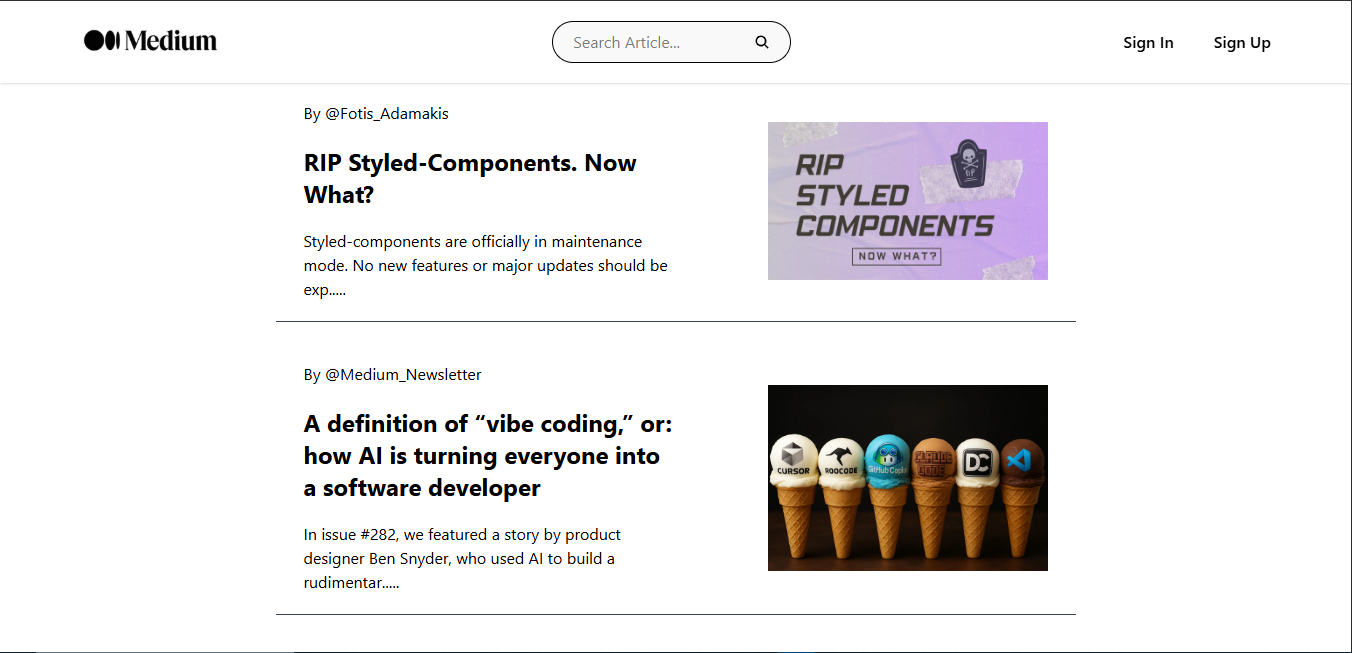
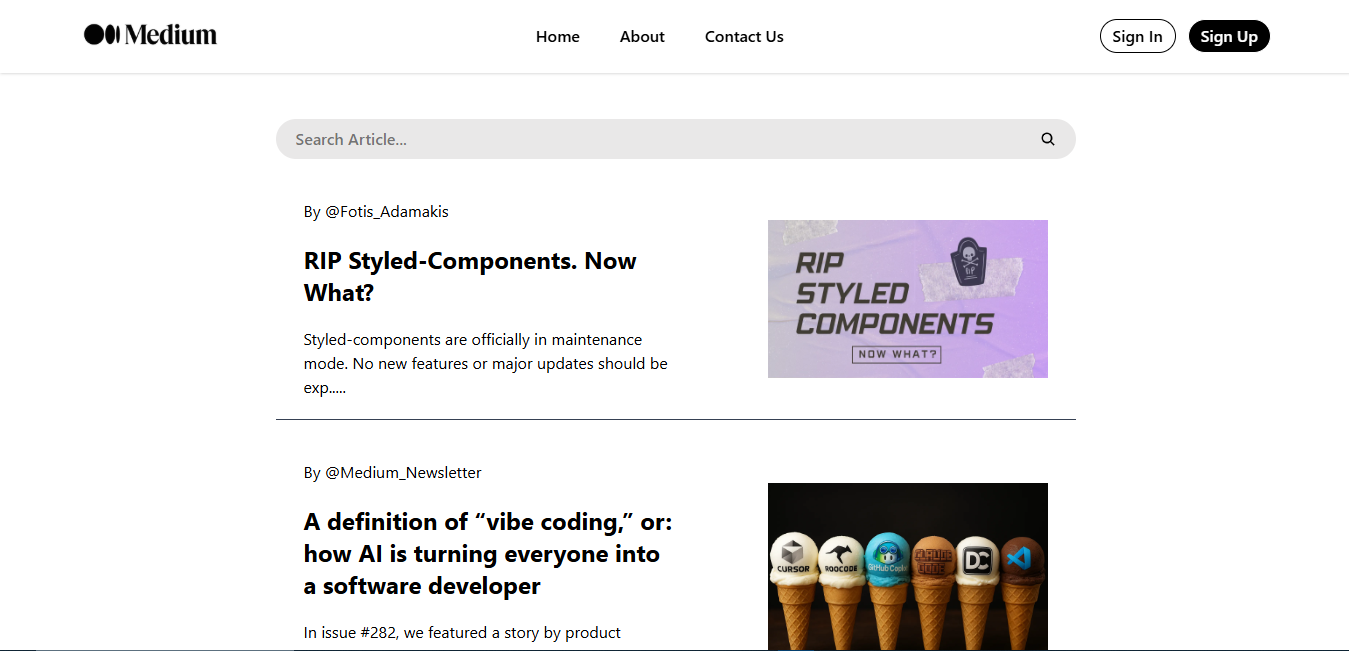
feat: implement layouting using outlet router DOM

diff --git a/src/pages/Homepage.jsx b/src/pages/Homepage.jsx
@@ -1,6 +1,5 @@
 import { useEffect, useState } from "react";
-import { Link, useNavigate, useSearchParams } from "react-router-dom";
-import Footer from "../components/Footer";
+import { useNavigate, useSearchParams } from "react-router-dom";
 import { useForm } from "react-hook-form";
 import { IoSearch } from "react-icons/io5";
 
@@ -34,23 +33,14 @@ const Homepage = () => {
   }
 
   return (
-    <main className=" h-fit flex flex-col justify-center items-center">
-      <nav className="bg-white fixed top-0 right-0 left-0 flex justify-between items-center px-20 py-5 shadow">
-        <div>
-          <img className="w-35" src="/src/assets/logo.png" alt="" />
-        </div>
-        <form onSubmit={handleSubmit(HandleSearch)} className="flex bg-[#F9F9F9] border px-5 rounded-full w-[700]">
-          <input defaultValue={query} {...register("query")} className="outline-none grow py-2" type="text" placeholder="Search Article..." />
+    <>
+      <section className="flex flex-col gap-5 pb-30 mt-30">
+        <form onSubmit={handleSubmit(HandleSearch)} className="flex bg-[#e9e8e8] px-5 rounded-full w-full po">
+          <input defaultValue={query} {...register("query")} className="outli ne-none grow py-2 font-semibold text-black" type="text" placeholder="Search Article..." />
           <button type="submit">
             <IoSearch />
           </button>
         </form>
-        <div className="flex items-center gap-10 font-semibold">
-          <Link to="/">Sign In</Link>
-          <Link to="/">Sign Up</Link>
-        </div>
-      </nav>
-      <section className="flex flex-col gap-5 pb-30 mt-20">
         {article.map((item) => (
           <div onClick={() => nav(`/article/@${item.username}/${item.title.split(" ").join("-")}`)} key={item.id} className="border-b border-b-gray-700 h-fit grid grid-cols-2 px-7 py-5 w-full max-w-200 cursor-pointer">
             <div className="flex flex-col justify-between items-start gap-5">
@@ -64,8 +54,7 @@ const Homepage = () => {
           </div>
         ))}
       </section>
-      <Footer />
-    </main>
+    </>
   );
 };
 

diff --git a/src/components/Navbar.jsx b/src/components/Navbar.jsx
@@ -1,22 +1,21 @@
 import { IoSearch } from "react-icons/io5";
 import { Link } from "react-router-dom";
 
-const Navbar = ({onSubmit, ...props}) => {
+const Navbar = () => {
 
   return (
     <nav className="bg-white fixed top-0 right-0 left-0 flex justify-between items-center px-20 py-5 shadow">
       <div>
         <img className="w-35" src="/src/assets/logo.png" alt="" />
       </div>
-      <form onSubmit={onSubmit} className="flex bg-[#F9F9F9] border px-5 rounded-full w-[700]">
-        <input {...props} className="outline-none grow py-2" type="text" />
-        <button type="submit">
-          <IoSearch/>
-        </button>
-      </form>
       <div className="flex items-center gap-10 font-semibold">
-        <Link to="/">Sign In</Link>
-        <Link to="/">Sign Up</Link>
+        <Link to="/">Home</Link>
+        <Link to="/">About</Link>
+        <Link to="/">Contact Us</Link>
+      </div>
+      <div className="flex items-center gap-3 font-semibold">
+        <Link className="border py-1 px-3 rounded-full" to="/">Sign In</Link>
+        <Link className="border bg-black text-white py-1 px-3 rounded-full" to="/">Sign Up</Link>
       </div>
     </nav>
   );

diff --git a/src/App.jsx b/src/App.jsx
@@ -1,22 +1,27 @@
-import { createBrowserRouter, RouterProvider } from 'react-router-dom'
-import Homepage from './pages/Homepage'
-import ArticleDetail from './pages/ArticleDetail'
+import { createBrowserRouter, RouterProvider } from "react-router-dom";
+import Homepage from "./pages/Homepage";
+import ArticleDetail from "./pages/ArticleDetail";
+import Layout from "./components/Layout";
 
 const router = createBrowserRouter([
   {
-    path: '/',
-    element: <Homepage/>  
-  },
-  {
-    path: '/article/:username/:slug',
-    element: <ArticleDetail/>
-  },
-])
+    path: "",
+    element: <Layout />,
+    children: [
+      {
+        path: "/",
+        element: <Homepage />,
+      },
+      {
+        path: "/article/:username/:slug",
+        element: <ArticleDetail />,
+      },
+    ],
+  }
+]);
 
 const App = () => {
-  return (
-    <RouterProvider router={router} />
-  )
-}
+  return <RouterProvider router={router} />;
+};
 
-export default App
+export default App;

diff --git a/src/pages/ArticleDetail.jsx b/src/pages/ArticleDetail.jsx
@@ -1,5 +1,4 @@
 import { useEffect, useState } from "react";
-import Navbar from "../components/Navbar";
 import { useParams } from "react-router-dom";
 
 const ArticleDetail = () => {
@@ -23,7 +22,6 @@ const ArticleDetail = () => {
 
   return (
     <main>
-      <Navbar />
       <section className="mt-25 flex items-center justify-center">
         {article.map((item) => (
           <div key={item.id} className="w-200 shadow p-7 flex flex-col gap-7">

diff --git a/src/components/Layout.jsx b/src/components/Layout.jsx
@@ -1,0 +1,15 @@
+import { Outlet } from 'react-router-dom'
+import Navbar from './Navbar'
+import Footer from './Footer'
+
+const Layout = () => {
+  return (
+    <main className=" h-fit flex flex-col justify-center items-center">
+      <Navbar/>
+      <Outlet/>
+      <Footer/>
+    </main>
+  )
+}
+
+export default Layout
